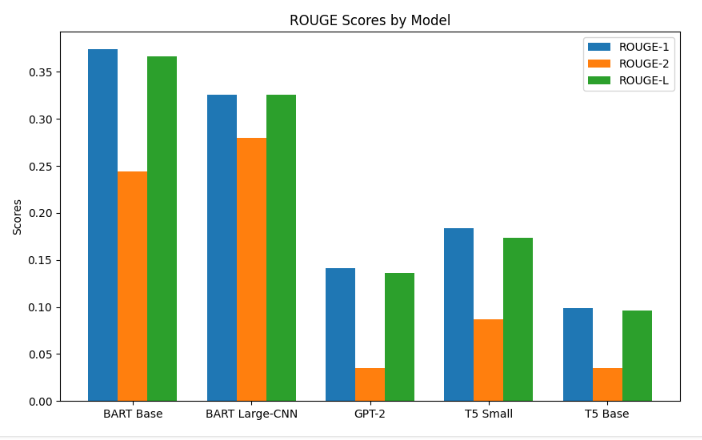
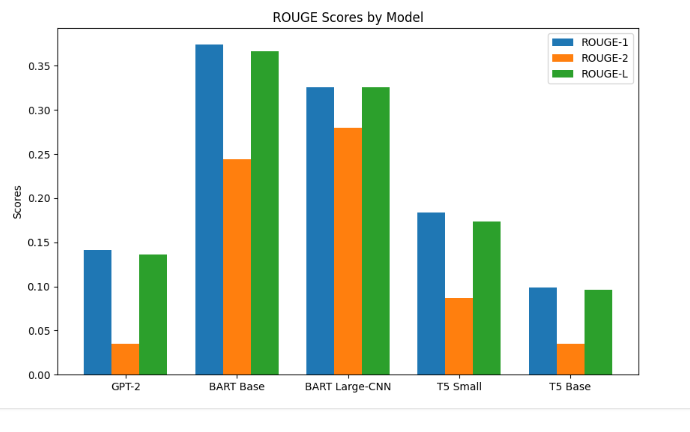
updated Readme.md

diff --git a/Readme.md b/Readme.md
@@ -17,14 +17,24 @@ This project aims to generate email subject lines by leveraging generative model
 
 | Model            | ROUGE-1                | ROUGE-2                | ROUGE-L                |
 |------------------|------------------------|------------------------|------------------------|
+| GPT-2            | 0.1409                 | 0.0353                 | 0.1361                 |
 | BART Base        | 0.3738                 | 0.2444                 | 0.3665                 |
 | BART Large-CNN   | 0.3257                 | 0.2800                 | 0.3257                 |
-| GPT-2            | 0.1409                 | 0.0353                 | 0.1361                 |
 | T5 Small         | 0.1835                 | 0.0866                 | 0.1732                 |
 | T5 Base          | 0.0985                 | 0.0353                 | 0.0959                 |
 
 ![alt text](rouge_scores.png)
 
+
+
+
+#### ROUGE Scores Explanation:
+
+- **ROUGE-1** measures the overlap of unigrams (single words) between the generated and reference summaries. Higher scores indicate better performance in capturing essential words.
+
+- **ROUGE-2** evaluates the overlap of bigrams (two consecutive words). It provides insight into how well the model captures pairs of words.
+
+- **ROUGE-L** assesses the longest common subsequence between the generated and reference summaries. It reflects the fluency and coherence of the generated text.
 
 ### Model Information:
 
